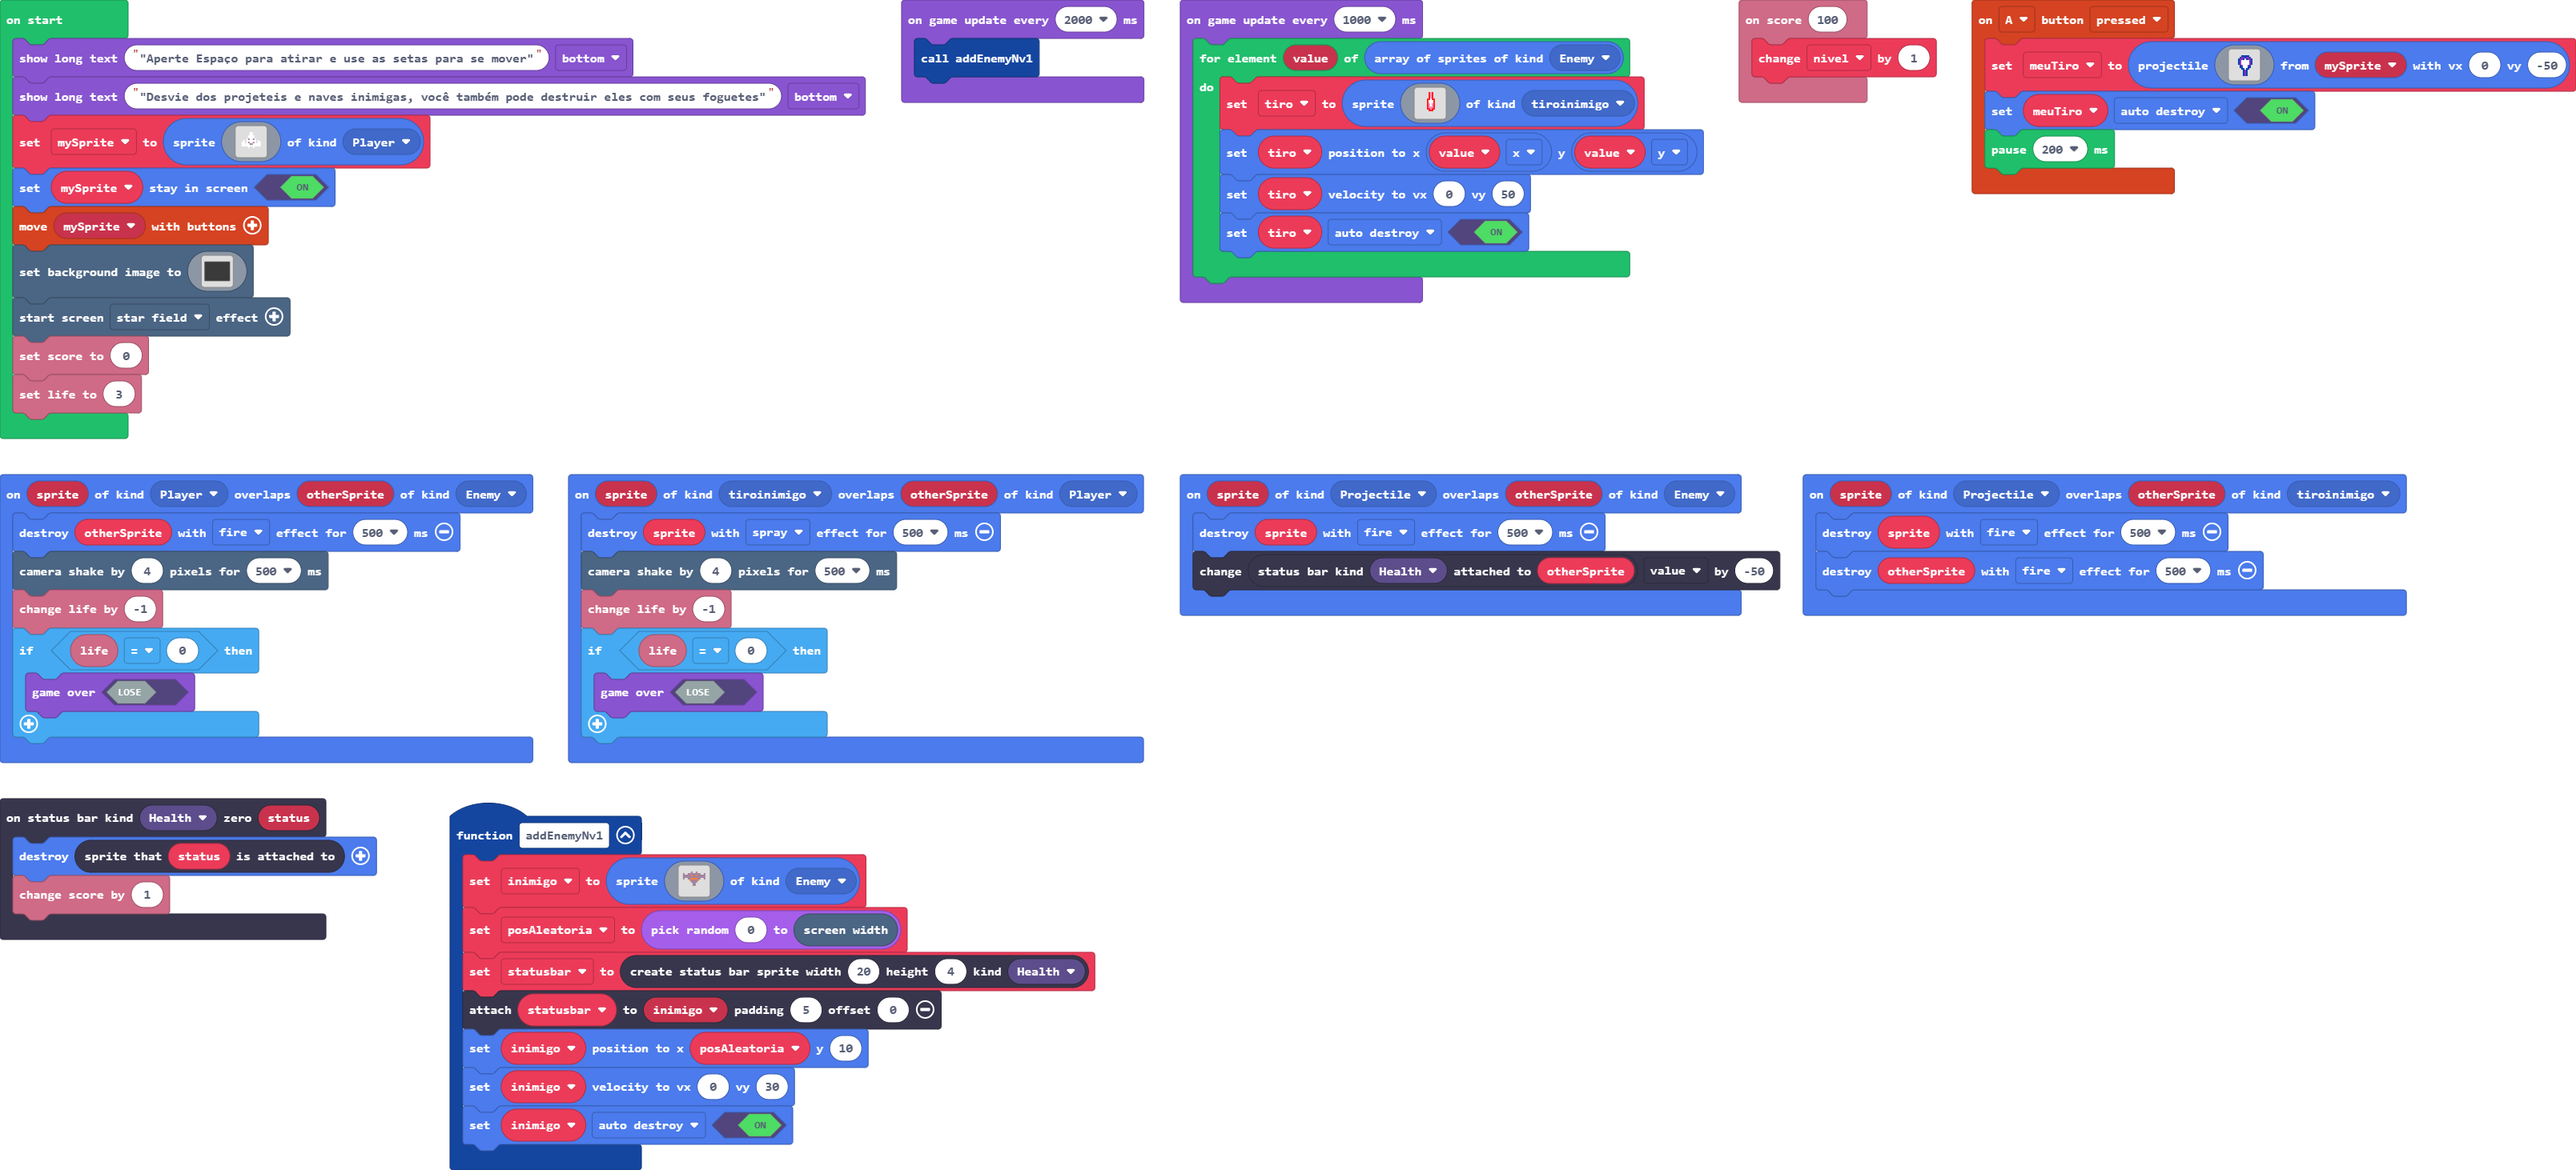
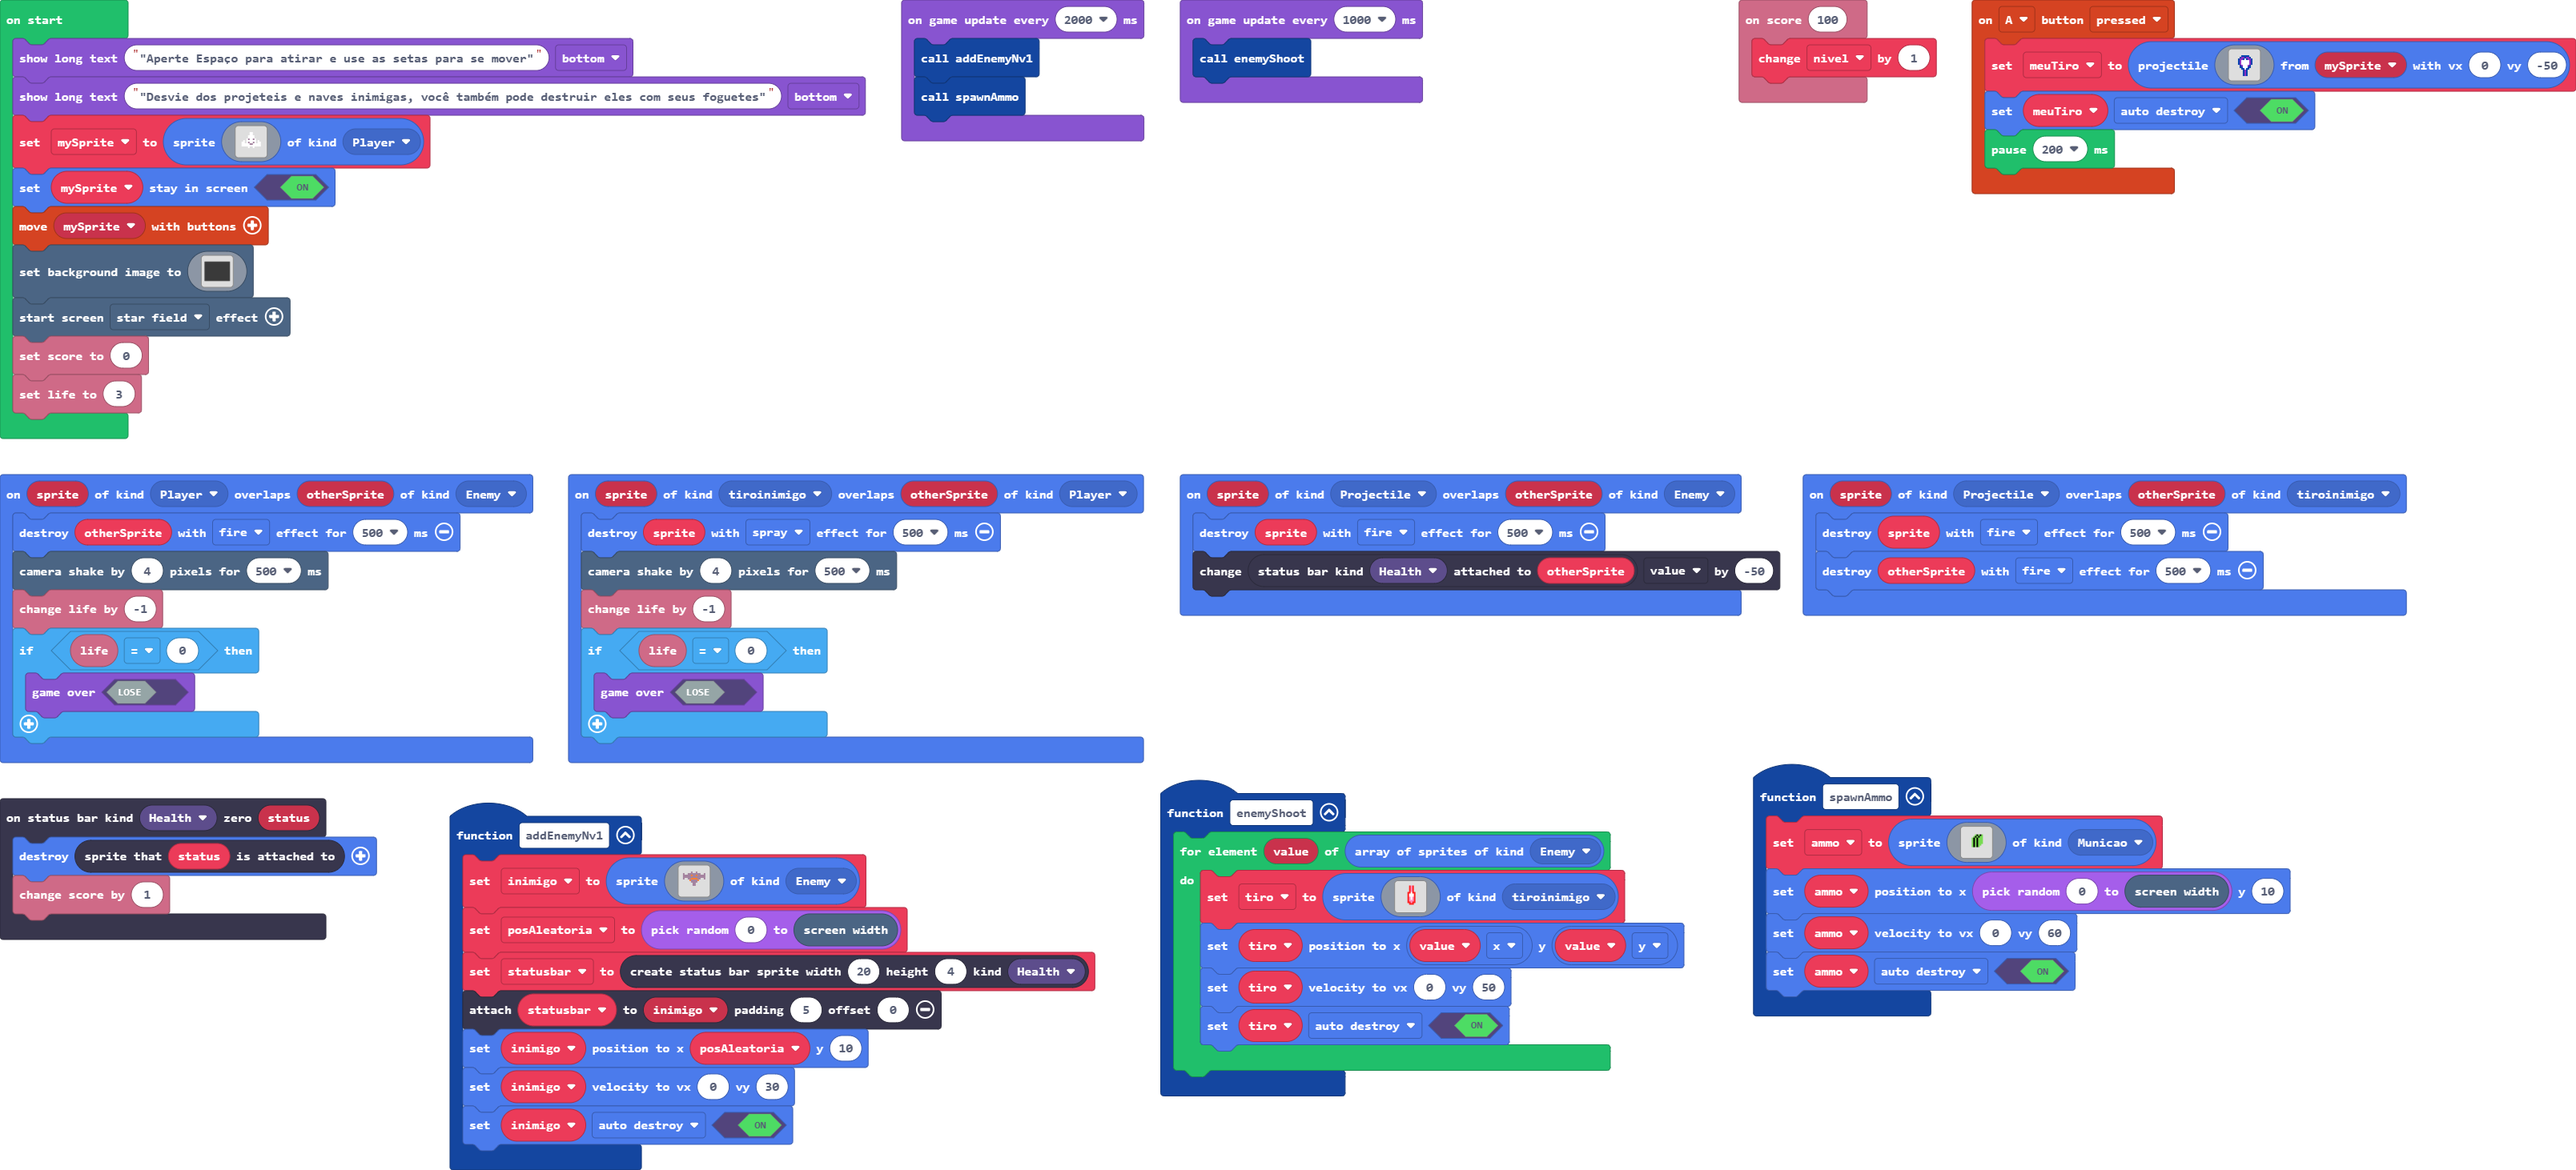
adicionado spawn de munições, porem ainda sem funcionalidade

Changed region(s): [[0.4352, 0.6464, 0.9015, 0.9542], [0.3419, 0.0308, 0.6839, 0.277]]

diff --git a/main.ts b/main.ts
@@ -1,5 +1,6 @@
 namespace SpriteKind {
     export const tiroinimigo = SpriteKind.create()
+    export const Municao = SpriteKind.create()
 }
 sprites.onOverlap(SpriteKind.tiroinimigo, SpriteKind.Player, function (sprite, otherSprite) {
     sprites.destroy(sprite, effects.spray, 500)
@@ -31,6 +32,29 @@ controller.A.onEvent(ControllerButtonEvent.Pressed, function () {
     meuTiro.setFlag(SpriteFlag.AutoDestroy, true)
     pause(200)
 })
+function spawnAmmo () {
+    ammo = sprites.create(img`
+        . . . . . . . . . . . . . . . . 
+        . . . . . . . . . . . . . . . . 
+        . . . . . . . . . . . . . . . . 
+        . . . . . . . 7 f 7 f 7 . . . . 
+        . . . . . . 7 f 7 f 7 7 . . . . 
+        . . . . . 7 f 7 f 7 7 7 . . . . 
+        . . . . . 7 f 7 f 7 7 7 . . . . 
+        . . . . . 7 f 7 f 7 7 7 . . . . 
+        . . . . . 7 f 7 f 7 7 7 . . . . 
+        . . . . . 7 f 7 f 7 7 . . . . . 
+        . . . . . 7 f 7 f 7 . . . . . . 
+        . . . . . . . . . . . . . . . . 
+        . . . . . . . . . . . . . . . . 
+        . . . . . . . . . . . . . . . . 
+        . . . . . . . . . . . . . . . . 
+        . . . . . . . . . . . . . . . . 
+        `, SpriteKind.Municao)
+    ammo.setPosition(randint(0, scene.screenWidth()), 10)
+    ammo.setVelocity(0, 60)
+    ammo.setFlag(SpriteFlag.AutoDestroy, true)
+}
 function addEnemyNv1 () {
     inimigo = sprites.create(img`
         . . . . . . . . . . . . . . . . 
@@ -68,6 +92,31 @@ sprites.onOverlap(SpriteKind.Projectile, SpriteKind.tiroinimigo, function (sprit
     sprites.destroy(sprite, effects.fire, 500)
     sprites.destroy(otherSprite, effects.fire, 500)
 })
+function enemyShoot () {
+    for (let value of sprites.allOfKind(SpriteKind.Enemy)) {
+        tiro = sprites.create(img`
+            . . . . . . . . . . . . . . . . 
+            . . . . . . . 2 3 2 . . . . . . 
+            . . . . . . . 2 3 2 . . . . . . 
+            . . . . . . . 2 3 2 . . . . . . 
+            . . . . . . . 2 3 2 . . . . . . 
+            . . . . . . 2 2 1 2 2 . . . . . 
+            . . . . . . 2 1 1 1 2 . . . . . 
+            . . . . . . 2 1 1 1 2 . . . . . 
+            . . . . . . 2 3 1 3 2 . . . . . 
+            . . . . . . 2 3 1 3 2 . . . . . 
+            . . . . . . 2 3 3 3 2 . . . . . 
+            . . . . . . 2 2 3 2 2 . . . . . 
+            . . . . . . . 2 2 2 . . . . . . 
+            . . . . . . . . . . . . . . . . 
+            . . . . . . . . . . . . . . . . 
+            . . . . . . . . . . . . . . . . 
+            `, SpriteKind.tiroinimigo)
+        tiro.setPosition(value.x, value.y)
+        tiro.setVelocity(0, 50)
+        tiro.setFlag(SpriteFlag.AutoDestroy, true)
+    }
+}
 sprites.onOverlap(SpriteKind.Projectile, SpriteKind.Enemy, function (sprite, otherSprite) {
     sprites.destroy(sprite, effects.fire, 500)
     statusbars.getStatusBarAttachedTo(StatusBarKind.Health, otherSprite).value += -50
@@ -85,6 +134,7 @@ let nivel = 0
 let statusbar: StatusBarSprite = null
 let posAleatoria = 0
 let inimigo: Sprite = null
+let ammo: Sprite = null
 let meuTiro: Sprite = null
 let mySprite: Sprite = null
 game.showLongText("\"Aperte Espaço para atirar e use as setas para se mover\"", DialogLayout.Bottom)
@@ -236,29 +286,8 @@ info.setScore(0)
 info.setLife(3)
 game.onUpdateInterval(2000, function () {
     addEnemyNv1()
+    spawnAmmo()
 })
 game.onUpdateInterval(1000, function () {
-    for (let value of sprites.allOfKind(SpriteKind.Enemy)) {
-        tiro = sprites.create(img`
-            . . . . . . . . . . . . . . . . 
-            . . . . . . . 2 3 2 . . . . . . 
-            . . . . . . . 2 3 2 . . . . . . 
-            . . . . . . . 2 3 2 . . . . . . 
-            . . . . . . . 2 3 2 . . . . . . 
-            . . . . . . 2 2 1 2 2 . . . . . 
-            . . . . . . 2 1 1 1 2 . . . . . 
-            . . . . . . 2 1 1 1 2 . . . . . 
-            . . . . . . 2 3 1 3 2 . . . . . 
-            . . . . . . 2 3 1 3 2 . . . . . 
-            . . . . . . 2 3 3 3 2 . . . . . 
-            . . . . . . 2 2 3 2 2 . . . . . 
-            . . . . . . . 2 2 2 . . . . . . 
-            . . . . . . . . . . . . . . . . 
-            . . . . . . . . . . . . . . . . 
-            . . . . . . . . . . . . . . . . 
-            `, SpriteKind.tiroinimigo)
-        tiro.setPosition(value.x, value.y)
-        tiro.setVelocity(0, 50)
-        tiro.setFlag(SpriteFlag.AutoDestroy, true)
-    }
+    enemyShoot()
 })
